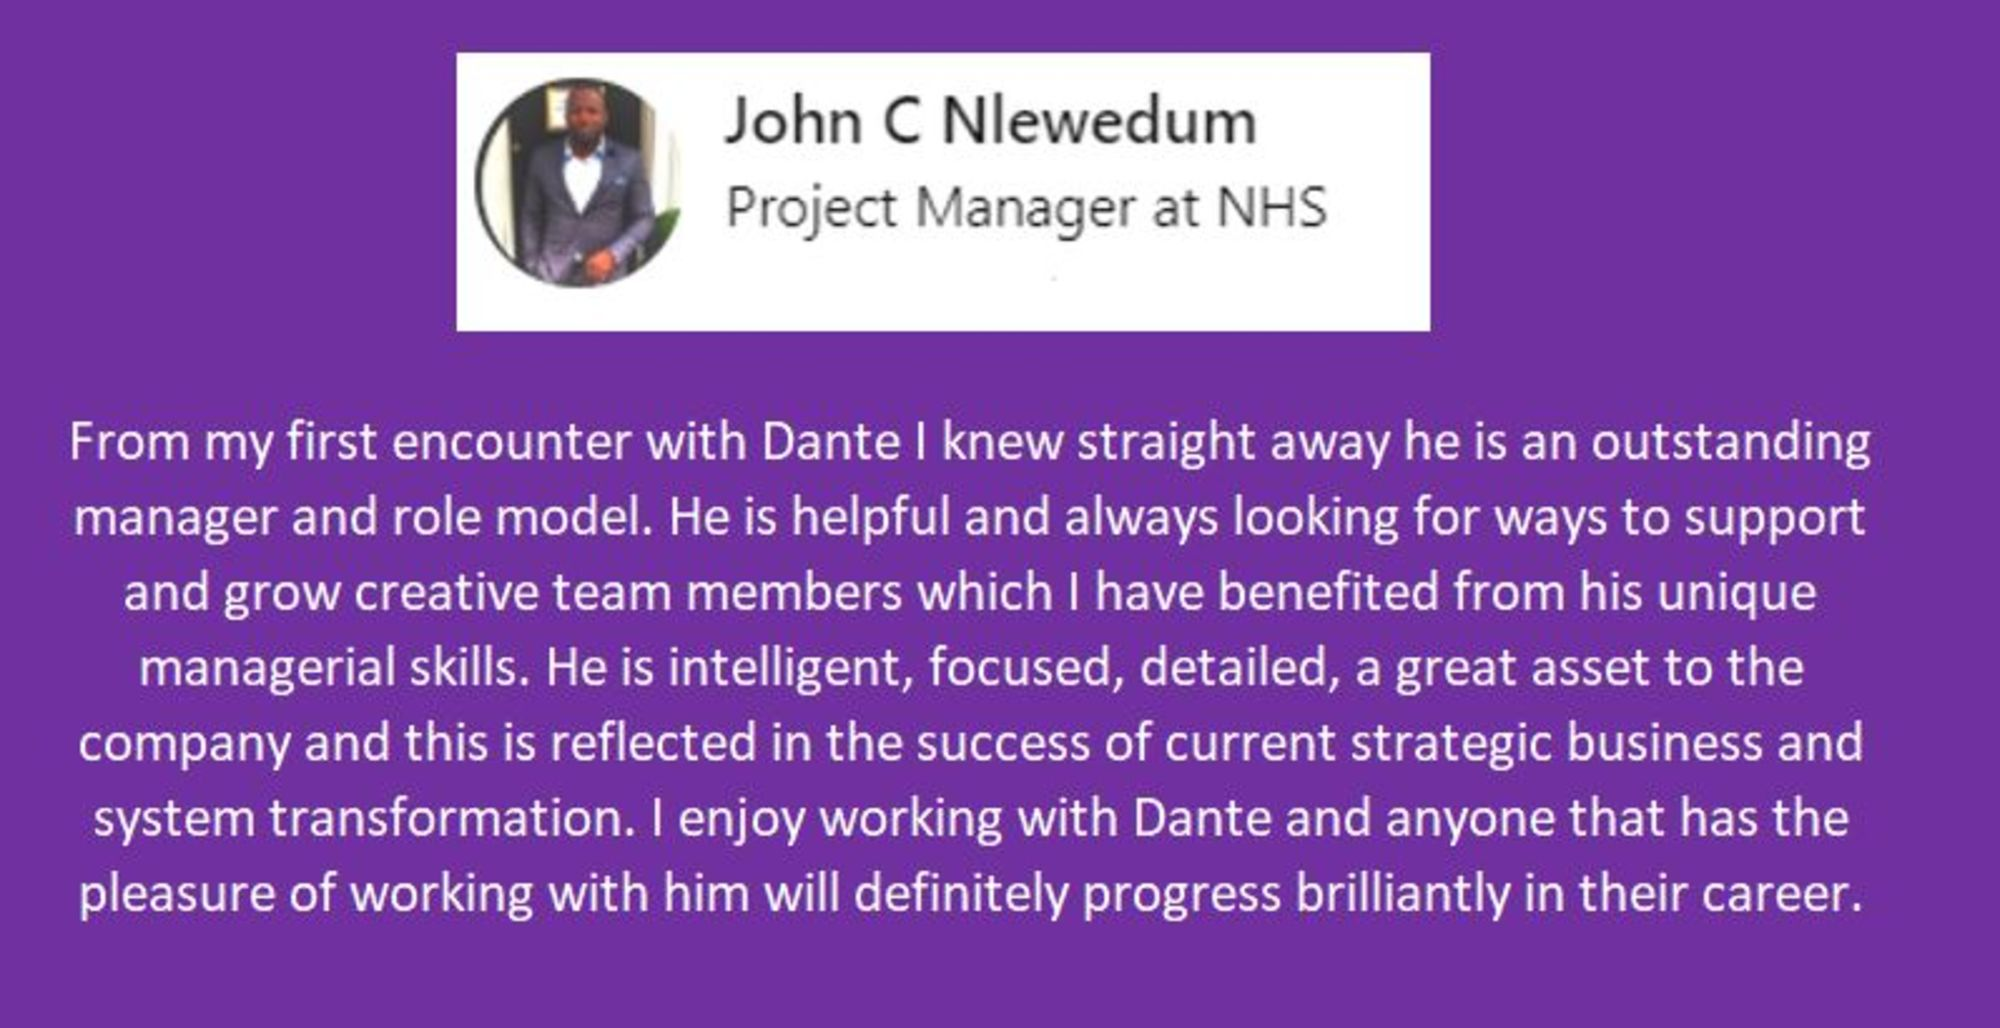
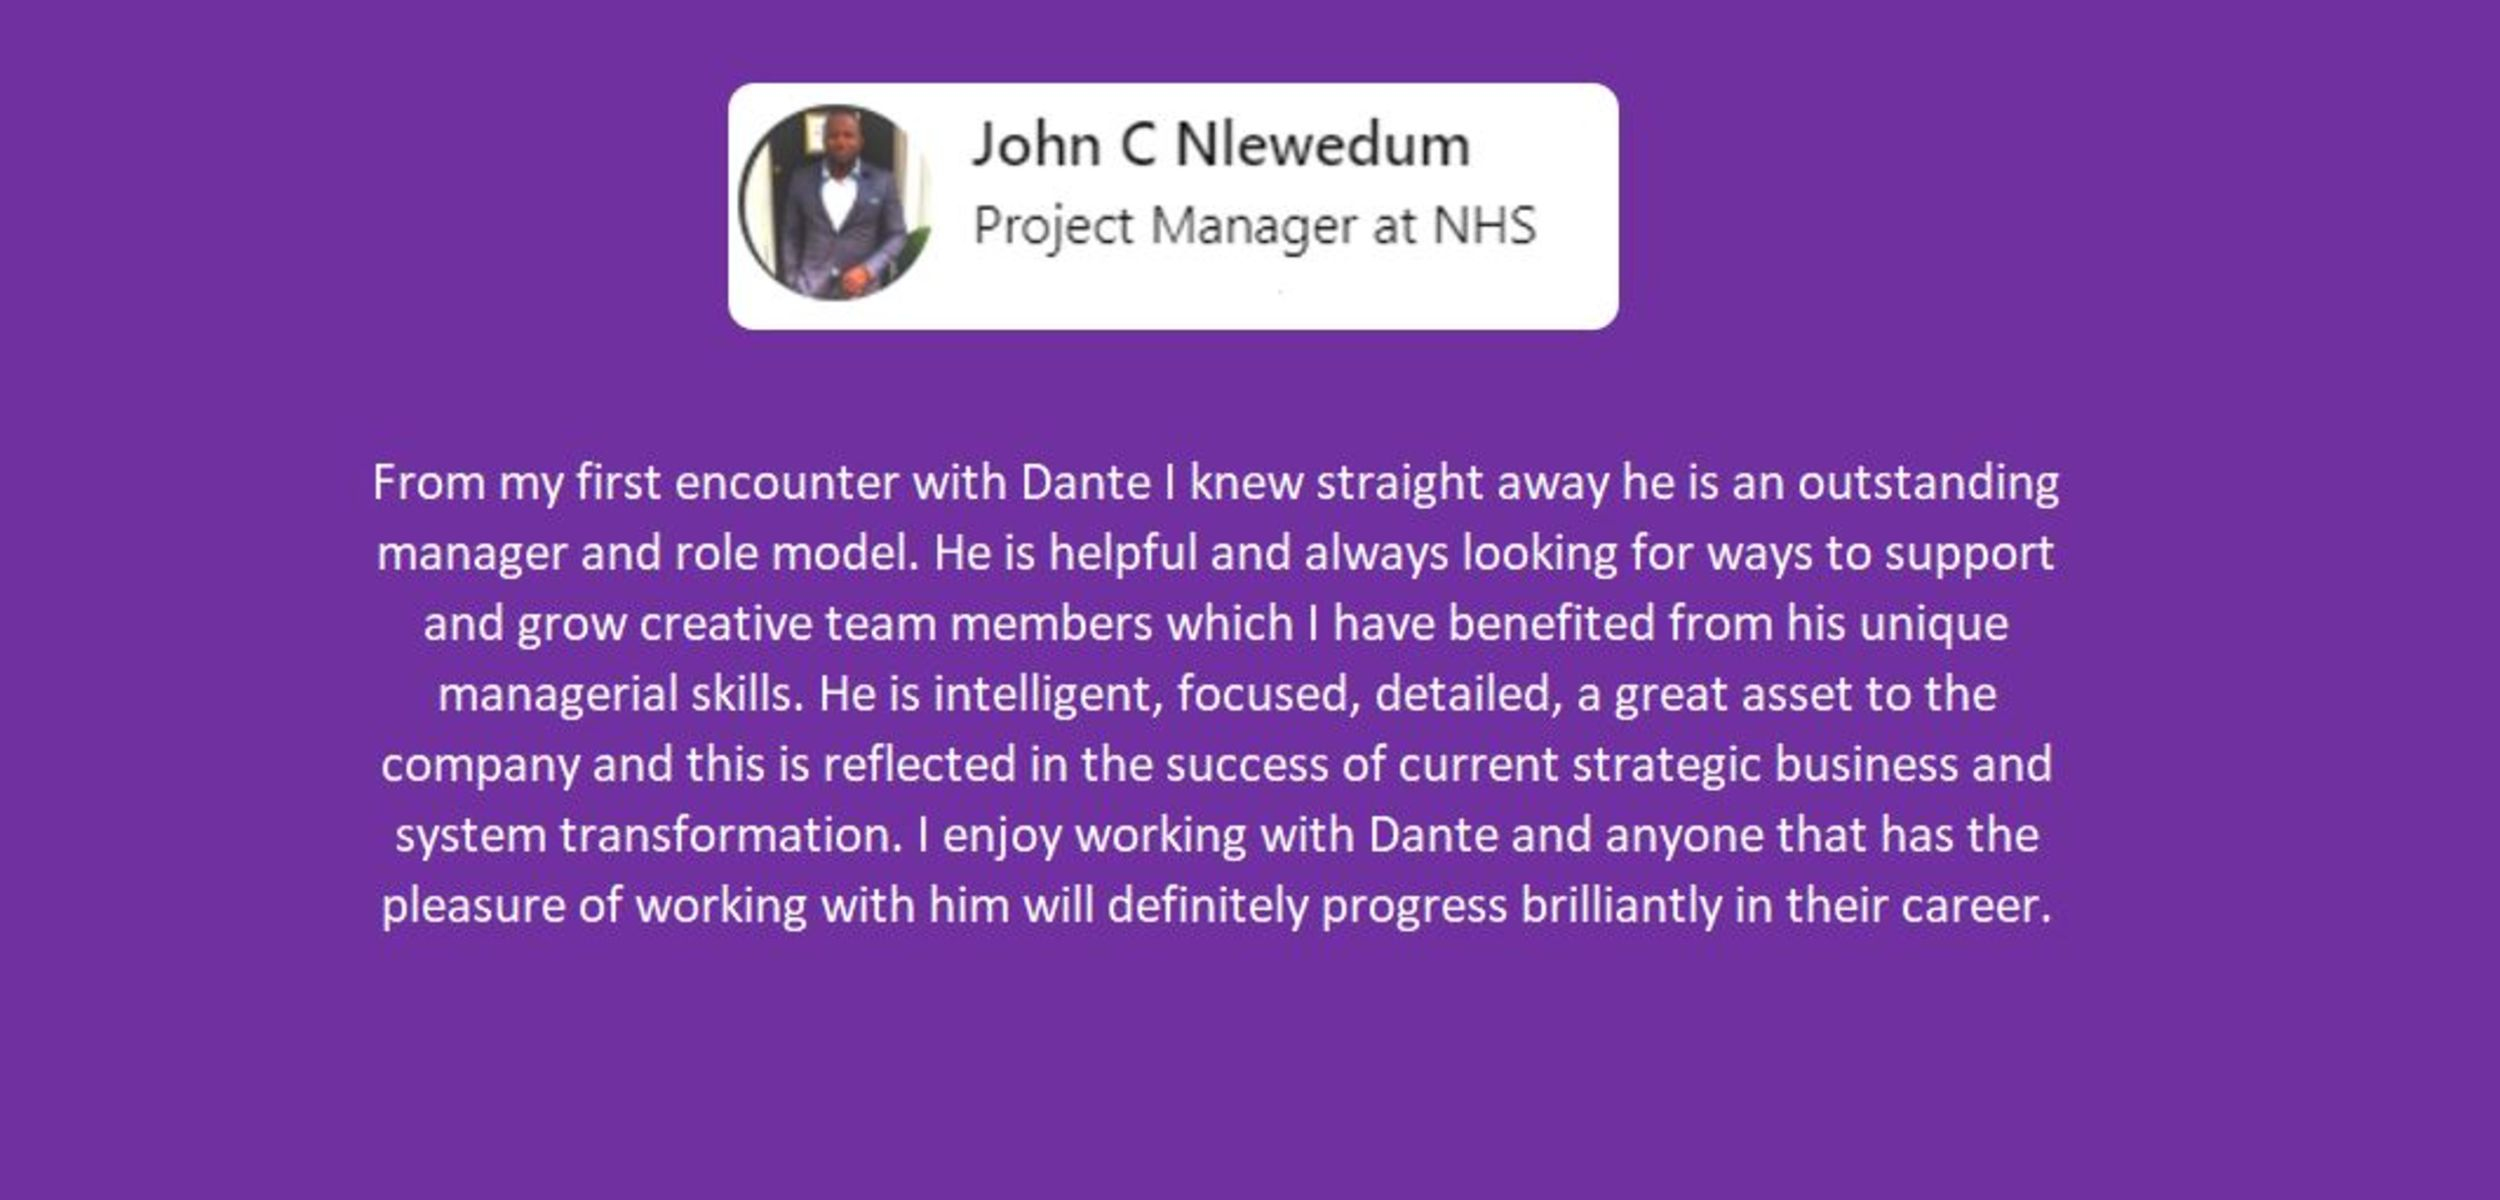
Completing the final format touch-ups to the design layout and formatting.

Changed region(s): [[0.031, 0.3735, 0.961, 0.9027], [0.217, 0.0311, 0.744, 0.3424]]

diff --git a/opmodel.html b/opmodel.html
@@ -12,8 +12,10 @@
 
 </head>
 
+
 <!--Set background and text color within the body style-->
 <body class="bg-light text-dark">
+
 
 <!--Navbar Header Setup-->
 
@@ -40,13 +42,15 @@
             </div>
         </nav>
 
+
 <!--Main Body Layout-->
+<!--Heading and subtitle-->
 
         <div class="container contintro">                        
             <div class="row rowhead">
                 <div class="col-md-12 col-sm-12 colref">
-                    <h1 class="text-center">THE OPERATING MODEL STRATEGY:</h1>
-                    <h3 class="text-center">LINKING WHERE YOU ARE NOW TO WHERE YOU WANT TO BE IN THE FUTURE</h3>
+                    <h1 class="text-center"><b>THE OPERATING MODEL STRATEGY:</b></h1> 
+                    <h3 class="text-center"><i>LINKING WHERE YOU ARE NOW TO WHERE YOU WANT TO BE IN THE FUTURE</i></h3> 
                 </div>                
             </div>            
             <div class="row rowref">
@@ -56,11 +60,12 @@
             </div>
         </div>
 
+
 <!--Desired Future State-->
 
         <div class="container contref">
             <div class="row justify-content-between rowref">
-                <div class="col-md-6 col-sm-6 colref">
+                <div class="col-md-6 col-sm-12 colref">
                     <p>Today’s digital technology paradigm is where data processing and storage is becoming increasingly cheaper and a vast array of low code and intuitive analytical tools. Does your Finance team have a competitive edge or is it a case of just dreaming of the following?:</p>
                     <ul>
                         <li>Focused understanding on measuring business performance rather than the majority of resource focused on manual transaction processing</li> 
@@ -72,12 +77,13 @@
                         <li>Have a culture of Data and Financial literacy, not just within the Finance team, but across the business so that effective communications are enabled through common language</li> 
                         <li>A culture of risks where failure is fast feedback and losses are minimised as lessons learned are integrated and applied going forward</li> 
                     </ul>
-                </div>            
-                <div class="col-md-6 col-sm-6 colref">
-                    <img src="assets/images/carlos-muza-dashboard-unsplash.jpg"  alt="Future State Image" class="img-fluid">
-                </div>            
+                </div>
+                <div class="col-md-6 col-sm-12 colref">                                        
+                    <img src="assets/images/carlos-muza-dashboard-unsplash.jpg"  alt="Future State Image" class="img-responsive" width="100%" height="95%">
+                </div> 
             </div>
         </div>
+
 
 <!--The challenge getting to the desired state-->
              
@@ -101,13 +107,17 @@
             </div>
         </div>        
 
+
+<!--Insert Journey Image indicating a winding path to a brighter destination-->
+
         <div class="container contimage">
             <div class="row rowimage">
-                <div class="col-12 colref">
-                    <img src="assets/images/matt-howard-journey2-unsplash.jpg" alt="Project Management Image" class="rounded mx-auto d-block">
+                <div class="col-md-12 colref">
+                    <img src="assets/images/matt-howard-journey2-unsplash.jpg" alt="Project Management Image" class="img-fluid">
                 </div> 
             </div>
         </div>
+
 
 <!--Defining the path to get to the desired state-->
 
@@ -120,7 +130,8 @@
             </div>
         </div>   
 
-    <!--List out the key components using basic icons and text ordered chronologically from left to right-->
+
+<!--List out the key components using basic icons and text ordered sequentially from left to right-->
 
         <div class="container">
             <div class="row project-critical">
@@ -162,7 +173,7 @@
                 <div class="col-md-4 col-sm-6">                
                     <i class="fas fa-search fa-4x"></i><br>
                     <h5>Analysis</h5>
-                    Evaluate the gap between the current state versus the desired future state
+                    Evaluate the gap between the current state and design the path to the desired future state
                 </div>
                 <div class="col-md-4 col-sm-6">                
                     <i class="fas fa-ruler fa-4x"></i><br>
@@ -194,16 +205,17 @@
                 </div>    
             </div>
         </div>   
-      
         
 
 <!--Footer Layout and social media icons with links-->
 
    <footer class="bg-dark text-light">
    
-        <div class="row justify-content-center social-media">            
-            <div class="col-md-4 col-sm-6">
-                <h1 class="text-center">Social media</h1>
+        <div class="row justify-content-center social-media">
+            <div class="col-md-2 col-sm-3">
+               <h1>Social media</h1>
+            </div>
+            <div class="col-md-8 col-sm-8">                
                 <a href="https://www.linkedin.com/in/dantehealy/" target="_blank"> <i class="fab fa-linkedin fa-3x"></i></a>
                 <a href="https://www.facebook.com/dante.healy.3" target="_blank"><i class="fab fa-facebook-square fa-3x"></i></a>
                 <a href="https://twitter.com/dante_healy" target="_blank">  <i class="fab fa-twitter-square fa-3x"></i></a>

diff --git a/index.html b/index.html
@@ -12,8 +12,10 @@
 
 </head>
 
+
 <!--Set background and text color within the body style-->
 <body class="bg-light text-dark">
+
 
 <!--Navbar Header Setup-->
 
@@ -40,18 +42,34 @@
             </div>
         </nav>
 
+
 <!--Main Body Layout-->
-
-
-<!--Heading and Introduction-->
+<!--Heading and subtitle-->
 
     <div class="container contintro">                        
         <div class="row rowhead">
             <div class="col-md-12 col-sm-12 colref">
-                <h1 class="text-center">LEVERAGE INNOVATION TO UNLOCK VALUE IN FINANCE</h1>
-                
-            </div>                
+                <h1 class="text-center"><b>LEVERAGE INNOVATION TO UNLOCK VALUE IN FINANCE:</b></h1> 
+                <h3 class="text-center"><i>A POWERFUL APPROACH TO TRANSFORMING FINANCE AND WHY MANY BUSINESSES ARE MISSING THOSE HIDDEN PROFIT OPPORTUNITIES</i></h3> 
+            </div> 
         </div>
+    </div>
+
+
+<!--Insert Fluid Hero Image and Finance Desired state-->
+
+        <div class="container contimage">
+            <div class="row rowimage">
+                <div class="col-md-12 colref">
+                    <img src="assets/images/business-pixabay.jpg" alt="Finance Transformation Image" style="transform-pic" class="img-fluid">
+                </div>    
+            </div>
+        </div>
+
+
+<!--Introductory paragraph-->
+
+    <div class="container contintro">                        
         <div class="row rowref">
             <div class="col-md-12 col-sm-12 colref">                
                 <p><h4>Finance leaders and professionals recognise the need to change and modernise in keeping pace with the current competitive environment. However, untangling accumulated individual and corporate habits has long been an elusive challenge for most Finance teams.</h4></p>
@@ -62,25 +80,14 @@
     </div>
 
 
-<!--Insert Fluid Hero Image and Finance Desired state-->
-
-        <div class="container contimage">
-            <div class="row rowimage">
-                <div class="col-12 colref">
-                    <img src="assets/images/business-pixabay.jpg" alt="Finance Transformation Image" style="transform-pic" class="img-fluid">
-                </div>    
-            </div>
-        </div>
-
-
 <!--Detailed opinion on current state of Finance with some images-->
 
         <div class="container contref">
             <div class="row justify-content-between rowref">
-                <div class="col-md-7 col-sm-7 colref">
+                <div class="col-md-7 col-sm-12 colref">
                     <img src="assets/images/gerard-altman-digitization-pixabay.jpg" alt="Desired Future State" style="future-pic" class="img-fluid">
                 </div>
-                <div class="col-md-5 col-sm-5 colref">                    
+                <div class="col-md-5 col-sm-12 colref">                    
                     <p>A Finance team that is valued by the rest of the business expects Finance to be a coach rather than scorekeeper. However, without a clear vision of what exactly needs to change and how to change business partner satisfaction remains elusive.</p>
                     <ul>
                         <li>Greater collaboration with the rest of the business and strategic input</li>
@@ -117,8 +124,10 @@
    <footer class="bg-dark text-light">
    
         <div class="row justify-content-center social-media">
-            <div class="col-md-6 col-sm-8">
-                <h1>Social media</h1>            
+            <div class="col-md-2 col-sm-3">
+               <h1>Social media</h1>
+            </div>
+            <div class="col-md-8 col-sm-8">                
                 <a href="https://www.linkedin.com/in/dantehealy/" target="_blank"> <i class="fab fa-linkedin fa-3x"></i></a>
                 <a href="https://www.facebook.com/dante.healy.3" target="_blank"><i class="fab fa-facebook-square fa-3x"></i></a>
                 <a href="https://twitter.com/dante_healy" target="_blank">  <i class="fab fa-twitter-square fa-3x"></i></a>
@@ -128,6 +137,7 @@
         </div>
    
    </footer>
+
 
 <!--Included for the toggler and carousel-->
     <script src="https://code.jquery.com/jquery-3.5.1.slim.min.js" integrity="sha384-DfXdz2htPH0lsSSs5nCTpuj/zy4C+OGpamoFVy38MVBnE+IbbVYUew+OrCXaRkfj" crossorigin="anonymous"></script>

diff --git a/resume.html b/resume.html
@@ -11,8 +11,10 @@
 
 </head>
 
+
 <!--Set background and text color within the body style-->
 <body class="bg-light text-dark">
+
 
 <!--Navbar Header Setup-->
 
@@ -39,14 +41,14 @@
             </div>
         </nav>
 
-<!--Main Body Layout-->
 
+<!--Main Body Layout-->
 <!--My Bio Profile Section-->
 
         <div class="container contintro">
             <div class="row rowhead">
                 <div class="col-12 colref">
-                    <h1 class="text-center">BIO AND CONTACT: Dante Healy</h1>
+                    <h1 class="text-center">BIO AND CONTACT: <i>DANTE HEALY</i></h1> 
                 </div>                
             </div>                        
         </div>
@@ -64,12 +66,13 @@
             </div>
         </div>
 
+
 <!--Contact Me via Email-->
 
         <div class="container contintro">            
             <div class="row justify-content-around rowhead2">
                 <div class="col-md-12 col-sm-12 colref" align="center">
-                    <h3>Have a challenge and want to get in touch?</h3>  
+                    <h3><b>Have a challenge and want to get in touch?</b></h3>  
                 </div>                                                       
             </div>            
         </div>
@@ -115,6 +118,10 @@
                         <li data-target="#carouselExampleIndicators" data-slide-to="1"></li>
                         <li data-target="#carouselExampleIndicators" data-slide-to="2"></li>
                         <li data-target="#carouselExampleIndicators" data-slide-to="3"></li>
+                        <li data-target="#carouselExampleIndicators" data-slide-to="4"></li>
+                        <li data-target="#carouselExampleIndicators" data-slide-to="5"></li>
+                        <li data-target="#carouselExampleIndicators" data-slide-to="6"></li>
+                        <li data-target="#carouselExampleIndicators" data-slide-to="7"></li>
                     </ol>
                     <div class="carousel-inner">
                         <div class="carousel-item active">
@@ -128,6 +135,15 @@
                         </div>
                         <div class="carousel-item">
                             <img src="assets/endorse/DonaldT.JPG" class="d-block w-100" alt="Donald Tauro">
+                        </div>
+                        <div class="carousel-item">
+                            <img src="assets/endorse/KemiF.JPG" class="d-block w-100" alt="Kemi Fadahunsi">
+                        </div>
+                        <div class="carousel-item">
+                            <img src="assets/endorse/HarminderM.JPG" class="d-block w-100" alt="Harminder Manak">
+                        </div>
+                        <div class="carousel-item">
+                            <img src="assets/endorse/AdeA.JPG" class="d-block w-100" alt="Ade Adenopo">
                         </div>
                     </div>
                     <a class="carousel-control-prev" href="#carouselExampleIndicators" role="button" data-slide="prev">
@@ -149,7 +165,7 @@
         <div class="container contintro">            
             <div class="row justify-content-around rowhead2">                    
                 <div class="col-md-12 col-sm-12 colref" align="center">
-                    <h3>Need an experienced Finance change agent?</h3>
+                    <h3><b>Need an experienced Finance change agent?</b></h3>
                 </div>                
             </div>            
         </div>
@@ -197,8 +213,6 @@
                 </div>                                             
             </div>
         </div>
-
-
 
 
 <!--Footer Layout and social media icons with links-->

diff --git a/assets/css/style.css b/assets/css/style.css
@@ -91,6 +91,14 @@ body {
   to { opacity: 0; }
 }
 
+/* ---------------------------------------- Carousel */
+
+carousel {
+    max-height: 600px;
+    padding-bottom: 50px;
+}
+
+
 
 /* ---------------------------------------- Footer-Social-Media */
 

diff --git a/assets/docs/README.md b/assets/docs/README.md
@@ -32,6 +32,7 @@ V5. Add pictures, fixed-top navbar and set-up flashing arrow icons above the but
 V6. Add initial wireframe concept (pdf), Github account to my social media contact, split buttons into their own rows, insert carousel of endorsements in between the contact buttons, refine content and format. 
 V7. Update Operating Model page layout with icons, refine the navbar to include a toggle and tidied up my contact page by aligning elements. 
 V8. Further refinements including removing my manual borders and unnecessary items.
+V9. Completing the final touch-ups to the design layout and formating. Still need to review the content to optimise my message! 
 
 
 ## Acknowledgement and References
